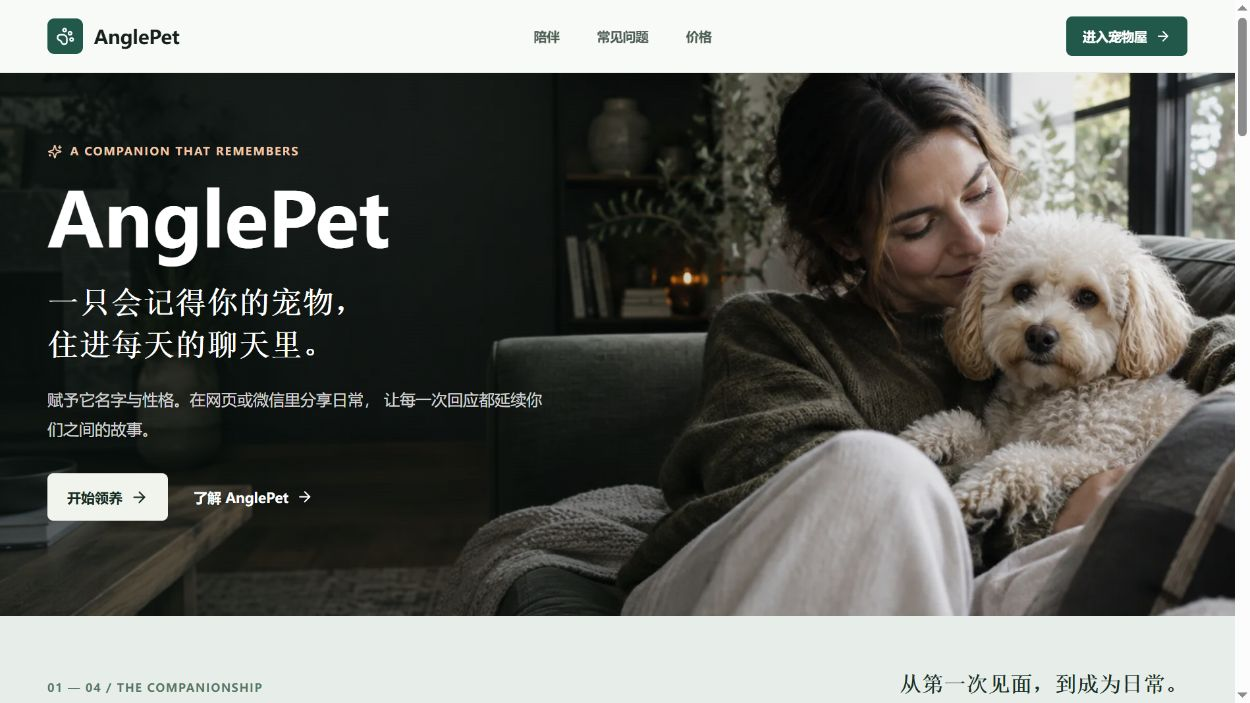
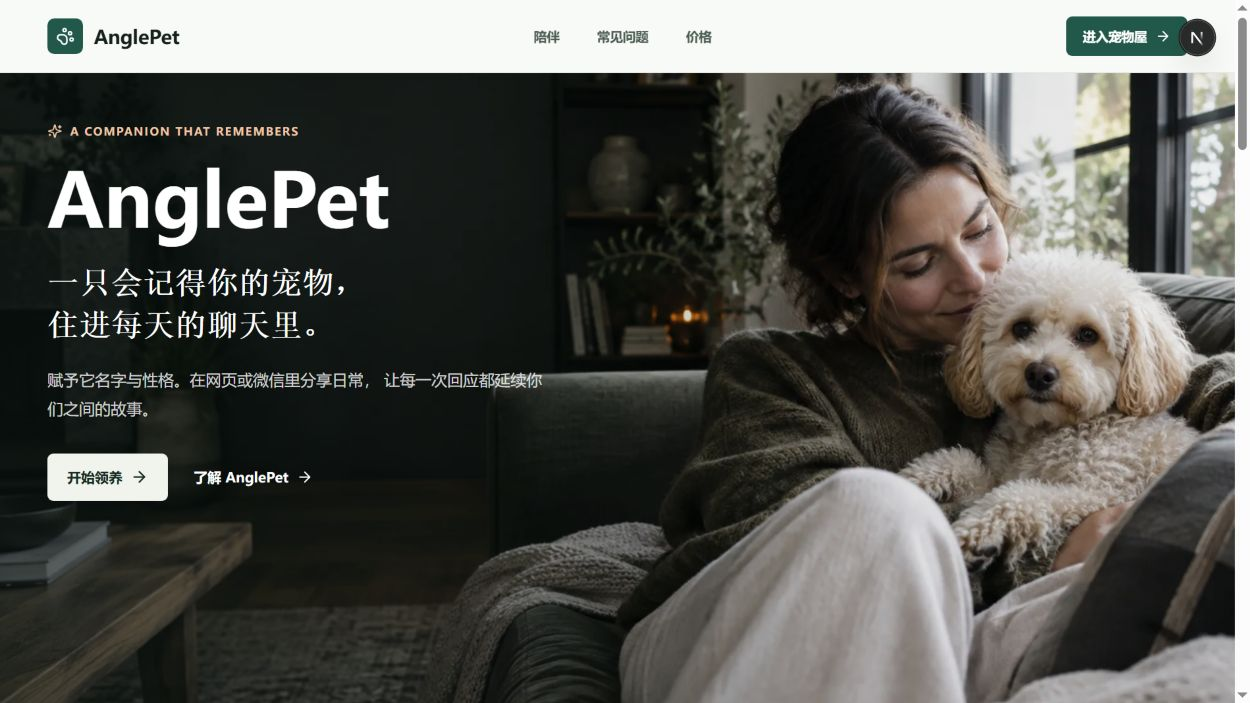
Compact homepage into full-screen chapters

diff --git a/frontend/app/page.tsx b/frontend/app/page.tsx
@@ -27,7 +27,7 @@ export default function Home() {
           <span>AnglePet</span>
         </Link>
         <div className="navlinks">
-          <a href="#product">陪伴</a>
+          <a href="#companionship">陪伴</a>
           <Link href="/faq">常见问题</Link>
           <Link href="/pricing">价格</Link>
         </div>
@@ -36,7 +36,7 @@ export default function Home() {
         </Link>
       </nav>
 
-      <section className="hero">
+      <section className="hero" data-scroll-page>
         <img className="hero-image" src={images.hero} alt="人与宠物在家中相伴" fetchPriority="high" />
         <div className="hero-shade" />
         <div className="hero-copy">
@@ -51,48 +51,50 @@ export default function Home() {
             <Link href="/console" className="primary-btn">
               开始领养 <ArrowRight size={18} />
             </Link>
-            <a href="#product" className="secondary-btn">了解 AnglePet <ArrowRight size={17} /></a>
+            <a href="#companionship" className="secondary-btn">了解 AnglePet <ArrowRight size={17} /></a>
           </div>
         </div>
       </section>
 
-      <section className="journey" aria-label="AnglePet 陪伴方式">
-        <div className="journey-heading">
-          <span>01 — 04 / THE COMPANIONSHIP</span>
-          <p>从第一次见面，到成为日常。</p>
-        </div>
-        <div className="journey-steps">
-          <div><PawPrint size={21} /><span>01</span><b>领养</b><small>给它名字和独特性格</small></div>
-          <div><HeartHandshake size={21} /><span>02</span><b>熟悉</b><small>记住你们的关系</small></div>
-          <div><MessageCircle size={21} /><span>03</span><b>陪聊</b><small>在微信里继续对话</small></div>
-          <div><Sparkles size={21} /><span>04</span><b>成长</b><small>让相处慢慢有了默契</small></div>
-        </div>
-      </section>
-
-      <section className="showcase-section section-photo-room" id="product">
-        <div className="showcase-copy">
-          <p className="kicker">01 / A personality of its own</p>
-          <h2 className="headline-lines">
-            <span>不是工具，</span>
-            <span>是一只会回应</span>
-            <span>你的宠物。</span>
-          </h2>
-          <p>
-            你可以为它设定名字、物种、脾气、亲密关系和说话方式。
-            它会用宠物的口吻陪你聊天，而不是像冷冰冰的助手一样回答问题。
-          </p>
-        </div>
-        <div className="device-panel">
-          <figure><img src={images.room} alt="宠物与主人在家中亲近相伴" loading="lazy" decoding="async" /></figure>
-          <div className="device-content">
-            <span>01 / Pet personality</span>
-            <h3>每只宠物都有自己的性格。</h3>
-            <p>黏人、傲娇、安静、活泼，AnglePet 会按你设定的宠物性格表达情绪和回应。</p>
+      <div className="companion-chapter" id="companionship" data-scroll-page>
+        <section className="journey" aria-label="AnglePet 陪伴方式">
+          <div className="journey-heading">
+            <span>01 — 04 / THE COMPANIONSHIP</span>
+            <p>从第一次见面，到成为日常。</p>
           </div>
-        </div>
-      </section>
+          <div className="journey-steps">
+            <div><PawPrint size={21} /><span>01</span><b>领养</b><small>给它名字和独特性格</small></div>
+            <div><HeartHandshake size={21} /><span>02</span><b>熟悉</b><small>记住你们的关系</small></div>
+            <div><MessageCircle size={21} /><span>03</span><b>陪聊</b><small>在微信里继续对话</small></div>
+            <div><Sparkles size={21} /><span>04</span><b>成长</b><small>让相处慢慢有了默契</small></div>
+          </div>
+        </section>
 
-      <section className="showcase-section memory-photo" id="memory">
+        <section className="showcase-section section-photo-room" id="product">
+          <div className="showcase-copy">
+            <p className="kicker">01 / A personality of its own</p>
+            <h2 className="headline-lines">
+              <span>不是工具，</span>
+              <span>是一只会回应</span>
+              <span>你的宠物。</span>
+            </h2>
+            <p>
+              你可以为它设定名字、物种、脾气、亲密关系和说话方式。
+              它会用宠物的口吻陪你聊天，而不是像冷冰冰的助手一样回答问题。
+            </p>
+          </div>
+          <div className="device-panel">
+            <figure><img src={images.room} alt="宠物与主人在家中亲近相伴" loading="lazy" decoding="async" /></figure>
+            <div className="device-content">
+              <span>01 / Pet personality</span>
+              <h3>每只宠物都有自己的性格。</h3>
+              <p>黏人、傲娇、安静、活泼，AnglePet 会按你设定的宠物性格表达情绪和回应。</p>
+            </div>
+          </div>
+        </section>
+      </div>
+
+      <section className="showcase-section memory-photo" id="memory" data-scroll-page>
         <div className="showcase-copy">
           <p className="kicker">02 / A shared memory</p>
           <h2 className="headline-lines">
@@ -125,7 +127,7 @@ export default function Home() {
         </div>
       </section>
 
-      <section className="showcase-section section-photo-desk" id="bridge">
+      <section className="showcase-section section-photo-desk" id="bridge" data-scroll-page>
         <div className="showcase-copy">
           <p className="kicker">03 / Always within reach</p>
           <h2 className="headline-lines">
@@ -146,7 +148,7 @@ export default function Home() {
         </div>
       </section>
 
-      <section className="showcase-section section-photo-secure" id="safety-story">
+      <section className="showcase-section section-photo-secure" id="safety-story" data-scroll-page>
         <div className="showcase-copy">
           <p className="kicker"><ShieldCheck size={15} /> 04 / Yours, and yours alone</p>
           <h2 className="headline-lines">
@@ -178,7 +180,7 @@ export default function Home() {
             </div>
           </div>
           <div className="footer-links">
-            <a href="#product">宠物陪伴</a>
+            <a href="#companionship">宠物陪伴</a>
             <a href="#memory">长期记忆</a>
             <Link href="/about">安全与合规</Link>
             <Link href="/faq">常见问题</Link>

diff --git a/frontend/app/globals.css b/frontend/app/globals.css
@@ -4433,26 +4433,91 @@ input:focus, textarea:focus, select:focus { border-color: var(--green); box-shad
   .site .hero-lead { display: none; }
 }
 
-.site > .journey,
+.site > [data-scroll-page],
 .site > .site-footer { scroll-margin-top: 74px; }
 
+.companion-chapter + .showcase-section { border-top: 1px solid #d7dfd9; }
+
+@media (min-width: 901px) {
+  .site > .hero,
+  .site > [data-scroll-page]:not(.hero) { height: calc(100svh - 74px); }
+
+  .site > [data-scroll-page]:not(.hero) { min-height: 590px; }
+
+  .site .hero {
+    min-height: 590px;
+    padding-block: clamp(48px, 7svh, 76px);
+  }
+
+  .companion-chapter {
+    display: grid;
+    grid-template-rows: auto minmax(0, 1fr);
+    overflow: hidden;
+    background: #f5f7f3;
+  }
+
+  .companion-chapter .journey {
+    padding: clamp(26px, 3.5svh, 40px) max(48px, calc((100vw - 1280px) / 2)) clamp(24px, 3svh, 34px);
+  }
+
+  .companion-chapter .journey-heading p { font-size: 19px; }
+  .companion-chapter .journey-steps { margin-top: 17px; }
+  .companion-chapter .journey-steps > div {
+    min-height: 78px;
+    padding-top: 13px;
+    grid-template-rows: 25px auto auto;
+    gap: 6px 8px;
+  }
+  .companion-chapter .journey-steps b { font-size: 16px; }
+  .companion-chapter .journey-steps small { font-size: 12px; }
+
+  .site .companion-chapter #product {
+    height: 100%;
+    min-height: 0;
+    padding-block: clamp(28px, 4svh, 46px);
+  }
+  .companion-chapter #product .showcase-copy h2.headline-lines {
+    margin: 17px 0;
+    font-size: clamp(36px, 3vw, 50px);
+  }
+  .companion-chapter #product .showcase-copy p:not(.kicker) {
+    font-size: 15px;
+    line-height: 1.75;
+  }
+  .companion-chapter #product .device-panel { align-self: center; }
+  .companion-chapter #product .device-panel figure {
+    height: clamp(180px, 26svh, 310px);
+    aspect-ratio: auto;
+  }
+  .companion-chapter #product .device-content { padding-top: 14px; }
+  .companion-chapter #product .device-content h3 {
+    margin: 8px 0 5px;
+    font-size: clamp(21px, 1.8vw, 26px);
+  }
+  .companion-chapter #product .device-content p {
+    font-size: 13px;
+    line-height: 1.6;
+  }
+
+  .site > .showcase-section {
+    min-height: 590px;
+    padding-block: clamp(40px, 6svh, 70px);
+  }
+}
+
 @media (max-width: 900px) {
-  .site > .journey,
-  .site > .showcase-section,
+  .site > [data-scroll-page],
   .site > .site-footer { scroll-margin-top: 66px; }
 }
 
 @media (max-width: 600px) {
-  .site > .journey,
-  .site > .showcase-section,
+  .site > [data-scroll-page],
   .site > .site-footer { scroll-margin-top: 62px; }
 }
 
 @media (max-width: 900px) {
-  html:has(.site) { scroll-snap-type: y mandatory; }
-  .site > .hero,
-  .site > .journey,
-  .site > .showcase-section,
+  html:has(.site) { scroll-snap-type: y proximity; }
+  .site > [data-scroll-page],
   .site > .site-footer { scroll-snap-align: start; scroll-snap-stop: always; }
 }
 

diff --git a/frontend/app/landing-scroll.tsx b/frontend/app/landing-scroll.tsx
@@ -9,7 +9,7 @@ export function LandingScroll() {
     if (!site || !topbar) return;
 
     const sections = Array.from(
-      site.querySelectorAll<HTMLElement>(":scope > .hero, :scope > .journey, :scope > .showcase-section, :scope > .site-footer"),
+      site.querySelectorAll<HTMLElement>(":scope > [data-scroll-page], :scope > .site-footer"),
     );
     const finePointer = window.matchMedia("(pointer: fine)");
     const reducedMotion = window.matchMedia("(prefers-reduced-motion: reduce)");
@@ -33,14 +33,10 @@ export function LandingScroll() {
       );
       const current = Math.max(0, targets.findLastIndex((top) => top <= window.scrollY + 40));
       const direction = Math.sign(event.deltaY);
-      const bounds = sections[current].getBoundingClientRect();
       const next = direction > 0
         ? Math.min(current + 1, sections.length - 1)
         : window.scrollY - targets[current] > 60 ? current : Math.max(current - 1, 0);
-      const remaining = bounds.bottom - window.innerHeight;
-      const target = direction > 0 && current > 0 && current < sections.length - 1 && remaining > 32
-        ? Math.min(maxScroll, window.scrollY + Math.min(remaining, window.innerHeight - navHeight - 80))
-        : targets[next];
+      const target = targets[next];
       if (Math.abs(target - window.scrollY) < 1) return;
 
       event.preventDefault();
